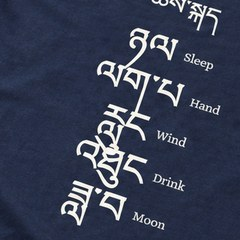
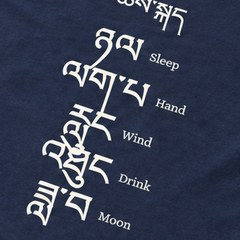
Tシャツ導線サムネ: image1を再び省き3枚に戻す＋拡大画像の文字を少し左へ
- スライドは thumb/image2/image0 の3枚（＋先頭ダミー）に戻す。
- tshirt-thumb.jpg の切り出しを右にずらし、プリント文字を中央寄りに。

Changed region(s): [[0.0875, 0.0, 0.9333, 0.9625], [0.7583, 0.2042, 0.9042, 0.3208], [0.0, 0.9042, 0.0583, 0.9625]]

diff --git a/wordmap.html b/wordmap.html
@@ -1652,14 +1652,13 @@
         .tshirt-nudge:hover { background: #f2ebdf; border-color: #dccdb0; }
         .tshirt-nudge:focus-visible { outline: 2px solid #b5651d; outline-offset: 2px; }
         .tshirt-nudge-thumb { width: 88px; height: 88px; flex: 0 0 auto; border-radius: 8px; overflow: hidden; position: relative; }
-        .tshirt-nudge-track { display: flex; width: 500%; height: 100%; animation: tshirtNudgeSlide 15s infinite; }
-        .tshirt-nudge-track img { width: 20%; height: 100%; object-fit: cover; display: block; }
+        .tshirt-nudge-track { display: flex; width: 400%; height: 100%; animation: tshirtNudgeSlide 12s infinite; }
+        .tshirt-nudge-track img { width: 25%; height: 100%; object-fit: cover; display: block; }
         @keyframes tshirtNudgeSlide {
-            0%, 18%   { transform: translateX(0); }
-            20%, 38%  { transform: translateX(-20%); }
-            40%, 58%  { transform: translateX(-40%); }
-            60%, 78%  { transform: translateX(-60%); }
-            80%, 100% { transform: translateX(-80%); }
+            0%, 22%   { transform: translateX(0); }
+            25%, 47%  { transform: translateX(-25%); }
+            50%, 72%  { transform: translateX(-50%); }
+            75%, 100% { transform: translateX(-75%); }
         }
         @media (prefers-reduced-motion: reduce) { .tshirt-nudge-track { animation: none; } }
         .tshirt-nudge-text { display: flex; flex-direction: column; gap: 1px; min-width: 0; }
@@ -8249,7 +8248,6 @@
                      + `<span class="tshirt-nudge-thumb"><span class="tshirt-nudge-track">`
                      + `<img src="assets/tshirts/tshirt-thumb.jpg" alt="" loading="lazy">`
                      + `<img src="assets/tshirts/tshirt-2.jpg" alt="" loading="lazy">`
-                     + `<img src="assets/tshirts/tshirt-1.jpg" alt="" loading="lazy">`
                      + `<img src="assets/tshirts/tshirt-0.jpg" alt="" loading="lazy">`
                      + `<img src="assets/tshirts/tshirt-thumb.jpg" alt="" loading="lazy">`
                      + `</span></span>`
